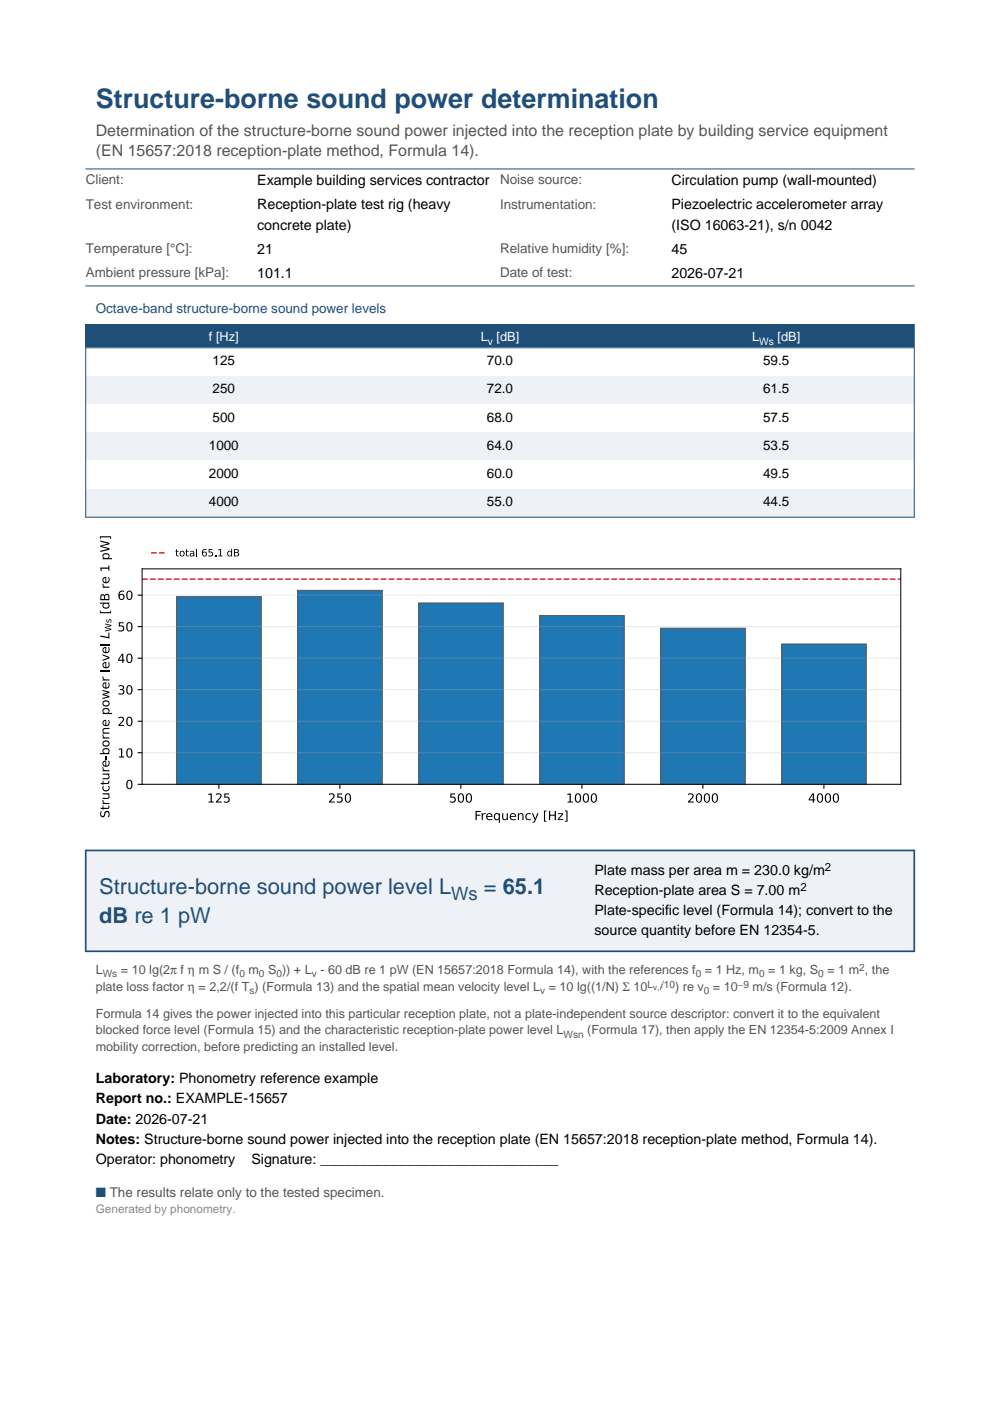
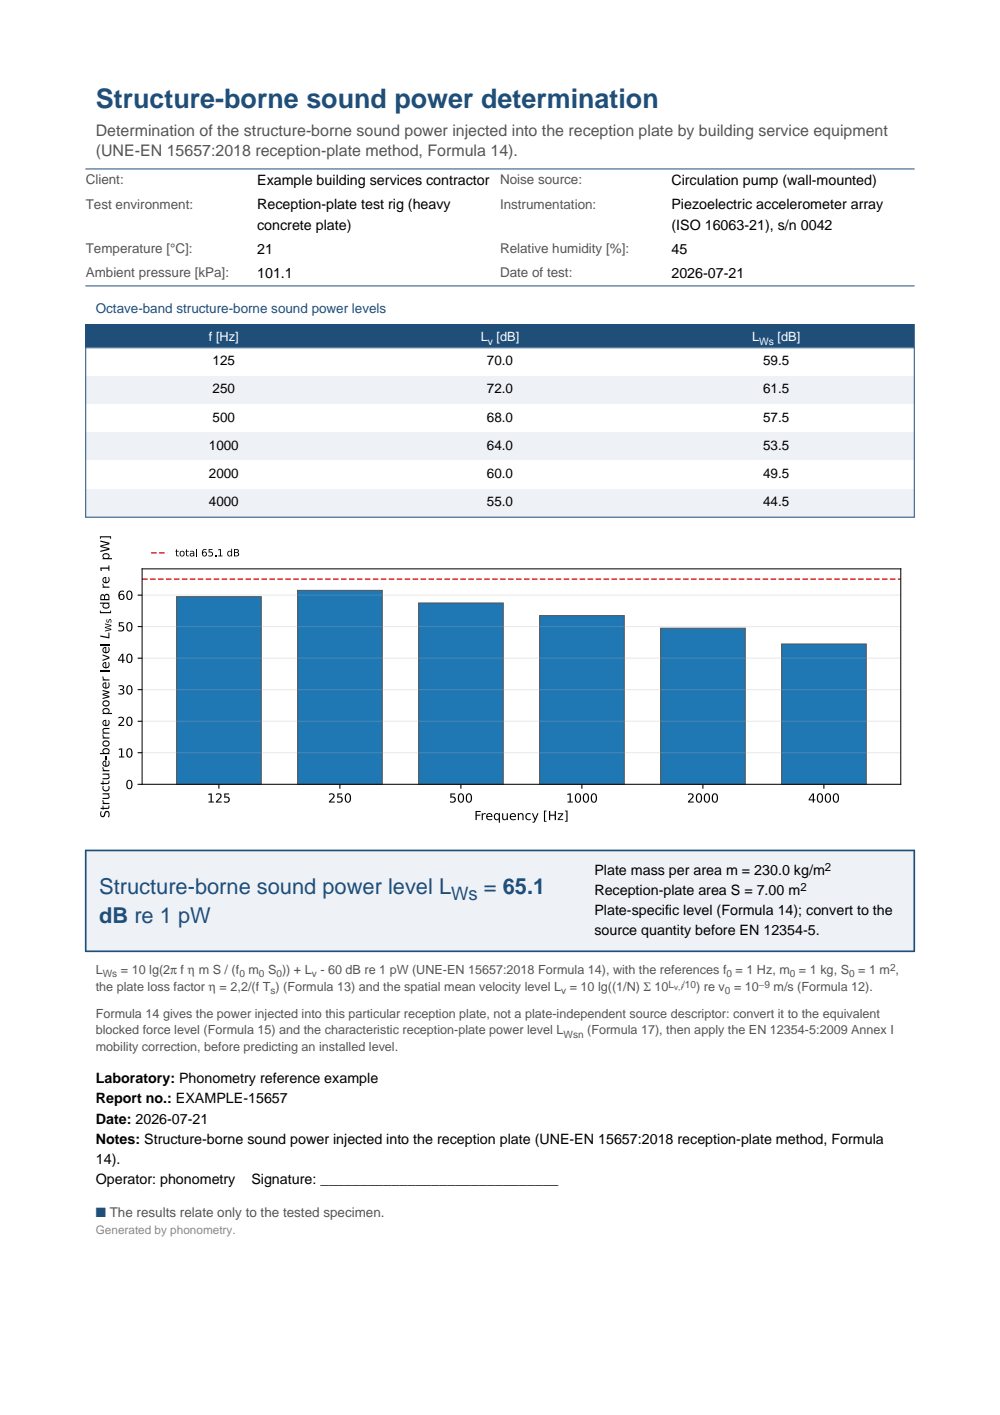
The structure-borne power method cites UNE-EN 15657:2018, the Spanish version of EN 15657:2017 it was checked against, wherever it cited an EN 15657:2018 that CEN never published, and the conformance report reads a UNE-EN designation whole

diff --git a/src/phonometry/_report/_i18n.py b/src/phonometry/_report/_i18n.py
@@ -580,7 +580,7 @@ _STRINGS: dict[str, str] = {
     # --- structure-borne source power / installed prediction (EN 15657, EN 12354-5) ---
     "{sym} = {value} dB, declared limit &#8804; {req} dB": "{sym} = {value} dB, límite declarado &#8804; {req} dB",
     "Structure-borne sound power determination": "Determinación de la potencia acústica estructural",
-    "Determination of the structure-borne sound power injected into the reception plate by building service equipment (EN 15657:2018 reception-plate method, Formula 14).": "Determinación de la potencia acústica estructural inyectada en la placa de recepción por equipos de servicio del edificio (método de la placa de recepción de la EN 15657:2018, fórmula 14).",
+    "Determination of the structure-borne sound power injected into the reception plate by building service equipment (UNE-EN 15657:2018 reception-plate method, Formula 14).": "Determinación de la potencia acústica estructural inyectada en la placa de recepción por equipos de servicio del edificio (método de la placa de recepción de la UNE-EN 15657:2018, fórmula 14).",
     "Structure-borne sound power levels per band": "Niveles de potencia acústica estructural por banda",
     "Octave-band structure-borne sound power levels": "Niveles de potencia acústica estructural en bandas de octava",
     "One-third-octave-band structure-borne sound power levels": "Niveles de potencia acústica estructural en bandas de tercio de octava",
@@ -588,7 +588,7 @@ _STRINGS: dict[str, str] = {
     "Plate mass per area m = {value} kg/m<super>2</super>": "Masa por unidad de área de la placa m = {value} kg/m<super>2</super>",
     "Reception-plate area S = {value} m<super>2</super>": "Área de la placa de recepción S = {value} m<super>2</super>",
     "Plate-specific level (Formula 14); convert to the source quantity before EN 12354-5.": "Nivel específico de la placa (fórmula 14); conviértalo a la magnitud de la fuente antes de la EN 12354-5.",
-    "L<sub>Ws</sub> = 10 lg(2&#960; f &#951; m S / (f<sub>0</sub> m<sub>0</sub> S<sub>0</sub>)) + L<sub>v</sub> - 60 dB re 1 pW (EN 15657:2018 Formula 14), with the references f<sub>0</sub> = 1 Hz, m<sub>0</sub> = 1 kg, S<sub>0</sub> = 1 m<super>2</super>, the plate loss factor &#951; = 2,2/(f T<sub>s</sub>) (Formula 13) and the spatial mean velocity level L<sub>v</sub> = 10 lg((1/N) &#931; 10<super>L<sub>v,<i>i</i></sub>/10</super>) re v<sub>0</sub> = 10<super>&#8722;9</super> m/s (Formula 12).": "L<sub>Ws</sub> = 10 lg(2&#960; f &#951; m S / (f<sub>0</sub> m<sub>0</sub> S<sub>0</sub>)) + L<sub>v</sub> - 60 dB re 1 pW (EN 15657:2018 fórmula 14), con las referencias f<sub>0</sub> = 1 Hz, m<sub>0</sub> = 1 kg, S<sub>0</sub> = 1 m<super>2</super>, el factor de pérdidas de la placa &#951; = 2,2/(f T<sub>s</sub>) (fórmula 13) y el nivel de velocidad medio espacial L<sub>v</sub> = 10 lg((1/N) &#931; 10<super>L<sub>v,<i>i</i></sub>/10</super>) re v<sub>0</sub> = 10<super>&#8722;9</super> m/s (fórmula 12).",
+    "L<sub>Ws</sub> = 10 lg(2&#960; f &#951; m S / (f<sub>0</sub> m<sub>0</sub> S<sub>0</sub>)) + L<sub>v</sub> - 60 dB re 1 pW (UNE-EN 15657:2018 Formula 14), with the references f<sub>0</sub> = 1 Hz, m<sub>0</sub> = 1 kg, S<sub>0</sub> = 1 m<super>2</super>, the plate loss factor &#951; = 2,2/(f T<sub>s</sub>) (Formula 13) and the spatial mean velocity level L<sub>v</sub> = 10 lg((1/N) &#931; 10<super>L<sub>v,<i>i</i></sub>/10</super>) re v<sub>0</sub> = 10<super>&#8722;9</super> m/s (Formula 12).": "L<sub>Ws</sub> = 10 lg(2&#960; f &#951; m S / (f<sub>0</sub> m<sub>0</sub> S<sub>0</sub>)) + L<sub>v</sub> - 60 dB re 1 pW (UNE-EN 15657:2018 fórmula 14), con las referencias f<sub>0</sub> = 1 Hz, m<sub>0</sub> = 1 kg, S<sub>0</sub> = 1 m<super>2</super>, el factor de pérdidas de la placa &#951; = 2,2/(f T<sub>s</sub>) (fórmula 13) y el nivel de velocidad medio espacial L<sub>v</sub> = 10 lg((1/N) &#931; 10<super>L<sub>v,<i>i</i></sub>/10</super>) re v<sub>0</sub> = 10<super>&#8722;9</super> m/s (fórmula 12).",
     "Formula 14 gives the power injected into this particular reception plate, not a plate-independent source descriptor: convert it to the equivalent blocked force level (Formula 15) and the characteristic reception-plate power level L<sub>Wsn</sub> (Formula 17), then apply the EN 12354-5:2009 Annex I mobility correction, before predicting an installed level.": "La fórmula 14 da la potencia inyectada en esta placa de recepción concreta, no un descriptor de fuente independiente de la placa: conviértala al nivel de fuerza bloqueada equivalente (fórmula 15) y al nivel de potencia característico de la placa de recepción L<sub>Wsn</sub> (fórmula 17), y aplique después la corrección de movilidad del anexo I de la EN 12354-5:2009, antes de predecir un nivel instalado.",
     "Predicted installed structure-borne sound": "Sonido estructural instalado previsto",
     "Predicted normalised structure-borne sound pressure level L<sub>n,s</sub> in the receiving room from building service equipment, estimated in accordance with EN 12354-5:2009 (installed power Formula 18b, per-path Formula 18a, energetic path sum Formula 17). This is a prediction from the characteristic source power and the transmission paths, not a measurement.": "Nivel de presión acústica estructural normalizado L<sub>n,s</sub> previsto en el recinto receptor debido a equipos de servicio del edificio, estimado de acuerdo con la EN 12354-5:2009 (potencia instalada fórmula 18b, por vía fórmula 18a, suma energética de vías fórmula 17). Es una predicción a partir de la potencia característica de la fuente y las vías de transmisión, no una medición.",

diff --git a/src/phonometry/building/measurement/structure_borne_power.py b/src/phonometry/building/measurement/structure_borne_power.py
@@ -1,5 +1,5 @@
 #  Copyright (c) 2026. Jose Manuel Requena Plens
-r"""Structure-borne sound power of building equipment (EN 15657:2018; ISO 9611).
+r"""Structure-borne sound power of building equipment (UNE-EN 15657:2018; ISO 9611).
 
 Building service equipment (pumps, fans, boilers, sanitary appliances) injects
 **structure-borne sound power** into the building structure it is fixed to.
@@ -114,7 +114,7 @@ __all__ = [
 
 #: EN 15657 vibratory velocity reference ``v0`` (= ISO 1683 10^-9 m/s), m/s.
 _REFERENCE_VELOCITY: float = REFERENCE_VALUES["solid"]["velocity"].value
-#: Reference structure-borne sound power ``P0``, W: the 10⁻¹² W EN 15657:2018
+#: Reference structure-borne sound power ``P0``, W: the 10⁻¹² W UNE-EN 15657:2018
 #: clause 7.1 counts the power level ``L_Ws`` from. ISO 1683 lists no
 #: structure-borne power; the number is the airborne 1 pW of its Table 1, and
 #: it is read from there.
@@ -125,7 +125,7 @@ _REFERENCE_MOBILITY: float = 1.0
 #: the 1 µN of ISO 1683:2015 Table 3.
 _REFERENCE_FORCE: float = REFERENCE_VALUES["solid"]["force"].value
 #: Characteristic mobility ``Y_R,inf,low`` of the standard 10 cm concrete
-#: reception plate (EN 15657:2018, clause 7.2.4), m/(N.s).
+#: reception plate (UNE-EN 15657:2018, clause 7.2.4), m/(N.s).
 _CHARACTERISTIC_PLATE_MOBILITY: float = 5.0e-6
 #: ISO 9611:1996 free-velocity reference ``v0`` (clause 7), m/s: the 50 nm/s
 #: ISO 1683:2015 keeps for structure-borne sound in note b of Table 3.
@@ -344,7 +344,7 @@ class StructureBornePowerResult(OwnsArrays):
         """Render an EN 15657 structure-borne sound power fiche to ``path``.
 
         Writes a one-page reception-plate characterization sheet: the
-        standard-basis line naming the EN 15657:2018 reception-plate method
+        standard-basis line naming the UNE-EN 15657:2018 reception-plate method
         (Formula 14), an optional metadata header (client, source equipment,
         test environment, instrumentation, climate, date), a per-band table
         (nominal octave/one-third-octave frequency, the spatial mean plate
@@ -449,7 +449,7 @@ def equivalent_blocked_force_level(
     power_level: ArrayLike,
     plate_mobility: ArrayLike,
 ) -> np.ndarray:
-    r"""Equivalent blocked force level, squared (EN 15657:2018, Formula 15).
+    r"""Equivalent blocked force level, squared (UNE-EN 15657:2018, Formula 15).
 
     :math:`L_\mathrm{Fb,eq} = L_\mathrm{Ws,low}
     - 10 \log_{10}(\operatorname{Re}\{Y_\mathrm{R,low,eq}\}/Y_0)`
@@ -500,7 +500,7 @@ def characteristic_reception_plate_power(
     *,
     characteristic_mobility: float = _CHARACTERISTIC_PLATE_MOBILITY,
 ) -> np.ndarray:
-    r"""Characteristic reception-plate power level (EN 15657:2018, Formula 17).
+    r"""Characteristic reception-plate power level (UNE-EN 15657:2018, Formula 17).
 
     :math:`L_\mathrm{Wsn} = L_\mathrm{Fb,eq} + 10 \log_{10}(|Y_{\mathrm{R},\infty,\mathrm{low}}|/Y_0)`
     with the characteristic mobility of the standard 10 cm concrete reception
@@ -534,7 +534,7 @@ def equivalent_free_velocity_level(
     power_level: ArrayLike,
     plate_mobility: ArrayLike,
 ) -> np.ndarray:
-    r"""Equivalent free velocity level of the source (EN 15657:2018, Formula 18).
+    r"""Equivalent free velocity level of the source (UNE-EN 15657:2018, Formula 18).
 
     :math:`L_\mathrm{vf,eq} = L_\mathrm{Ws,high} + 10 \log_{10}\left( |Y_\mathrm{R,high,eq}|^2 /
     (\operatorname{Re}\{Y_\mathrm{R,high,eq}\}\, Y_0) \right) + 60~\text{dB}`
@@ -585,7 +585,7 @@ def source_mobility_from_levels(
     free_velocity_level: ArrayLike,
     blocked_force_level: ArrayLike,
 ) -> np.ndarray:
-    r"""Equivalent source mobility magnitude (EN 15657:2018, Formula 19).
+    r"""Equivalent source mobility magnitude (UNE-EN 15657:2018, Formula 19).
 
     :math:`|Y_\mathrm{S,eq}|^2 / Y_0^2 = 10^{(L_\mathrm{vf,eq} - L_\mathrm{Fb,eq})/10} \cdot
     10^{-6}`, the ratio

diff --git a/src/phonometry/_report/en15657.py b/src/phonometry/_report/en15657.py
@@ -6,7 +6,7 @@ Renders a
 (the structure-borne sound power a piece of building service equipment injects
 into a reception plate of known mass per area ``m`` and area ``S`` from the
 spatial-average plate velocity level ``Lv`` and the plate loss factor ``eta``,
-EN 15657:2018 reception-plate method, Formula 14) to a one-page test sheet laid
+UNE-EN 15657:2018 reception-plate method, Formula 14) to a one-page test sheet laid
 out like a sound-power determination:
 
 * a title and the standard-basis line naming the EN 15657 reception-plate
@@ -67,7 +67,7 @@ def _basis(language: Language = "en") -> str:
     """The standard-basis line naming the EN 15657 reception-plate method."""
     return t(
         "Determination of the structure-borne sound power injected into the "
-        "reception plate by building service equipment (EN 15657:2018 "
+        "reception plate by building service equipment (UNE-EN 15657:2018 "
         "reception-plate method, Formula 14).",
         language,
     )
@@ -165,7 +165,7 @@ def _relation_strip(language: Language = "en") -> str:
     return t(
         "L<sub>Ws</sub> = 10 lg(2&#960; f &#951; m S / (f<sub>0</sub> "
         "m<sub>0</sub> S<sub>0</sub>)) + L<sub>v</sub> - 60 dB re 1 pW "
-        "(EN 15657:2018 Formula 14), with the references f<sub>0</sub> = 1 Hz, "
+        "(UNE-EN 15657:2018 Formula 14), with the references f<sub>0</sub> = 1 Hz, "
         "m<sub>0</sub> = 1 kg, S<sub>0</sub> = 1 m<super>2</super>, the plate "
         "loss factor &#951; = 2,2/(f T<sub>s</sub>) (Formula 13) and the "
         "spatial mean velocity level L<sub>v</sub> = 10 lg((1/N) &#931; "

diff --git a/scripts/conformance/domains/building.py b/scripts/conformance/domains/building.py
@@ -3260,7 +3260,7 @@ def _chk_iso7849_impedance_term() -> Outcome:
 # --- Structure-borne sound power of building equipment (EN 15657) ---
 @register(
     "Room & building acoustics",
-    "EN 15657:2018 Formula (14)",
+    "UNE-EN 15657:2018 Formula (14)",
     "Reception-plate L_Ws = resonant-plate power P = ωη(mS)⟨v²⟩  (round-trip)",
 )
 def _chk_en15657_power_balance() -> Outcome:
@@ -3277,7 +3277,7 @@ def _chk_en15657_power_balance() -> Outcome:
 
 @register(
     "Room & building acoustics",
-    "EN 15657:2018 Formula (13)",
+    "UNE-EN 15657:2018 Formula (13)",
     "Plate loss factor η = 2,2/(f·Ts) at 1 kHz, Ts = 0,3 s",
 )
 def _chk_en15657_loss_factor() -> Outcome:
@@ -3289,7 +3289,7 @@ def _chk_en15657_loss_factor() -> Outcome:
 
 @register(
     "Room & building acoustics",
-    "EN 15657:2018 Formulae (15)/(17) + EN 12354-5 Annex I.3",
+    "UNE-EN 15657:2018 Formulae (15)/(17) + EN 12354-5 Annex I.3",
     "Source conversion chain reproduces Table I.8 (wall, installed)",
 )
 def _chk_en15657_conversion_chain() -> Outcome:

diff --git a/src/phonometry/building/prediction/installed_structure_borne.py b/src/phonometry/building/prediction/installed_structure_borne.py
@@ -133,7 +133,7 @@ __all__ = [
 REFERENCE_AREA_M2: float = 10.0
 
 #: Characteristic mobility ``Y_inf,rec`` of the EN 15657 reference reception
-#: plate (10 cm concrete; EN 12354-5 Annex I / EN 15657:2018 7.2.4), m/(N.s).
+#: plate (10 cm concrete; EN 12354-5 Annex I / UNE-EN 15657:2018 7.2.4), m/(N.s).
 _REFERENCE_PLATE_MOBILITY: float = 5.0e-6
 
 
@@ -679,7 +679,7 @@ def typical_element_mobility(
 # closed form of :func:`tapping_machine_force_level_estimate`.
 #
 # The reference the table caption prints, "re 1 pN", is a defect: the values
-# are re 1e-6 N, the reference force of ISO 1683 that EN 15657:2018 Formula
+# are re 1e-6 N, the reference force of ISO 1683 that UNE-EN 15657:2018 Formula
 # (15) also uses. See docs/ERRATA.md. The tabulated numbers are unaffected.
 
 #: The ``10^-12`` the closed form under Table F.1 divides by, in N²: the square

diff --git a/tests/test_conformance_artifact.py b/tests/test_conformance_artifact.py
@@ -794,6 +794,17 @@ def test_a_standard_splits_into_designation_edition_and_clause() -> None:
     )
 
 
+def test_a_national_adoption_keeps_its_number_in_the_designation() -> None:
+    """UNE-EN 15657:2018 was read as the body "UNE-EN" with 15657 in the clause."""
+    document = _first("UNE-EN 15657:2018 Formula (14)")
+    assert document.kind is references.ReferenceKind.STANDARD
+    assert (document.designation, document.edition, document.clause) == (
+        "UNE-EN 15657",
+        "2018",
+        "Formula (14)",
+    )
+
+
 def test_a_book_edition_is_a_string_not_a_year() -> None:
     """An edition has to hold "2e" and "4th ed" as well as "2014"."""
     document = _first("Long, Architectural Acoustics 2e, Table 8.1")

diff --git a/tests/building/prediction/test_installed_structure_borne_tables.py b/tests/building/prediction/test_installed_structure_borne_tables.py
@@ -318,7 +318,7 @@ def test_table_f1_is_referred_to_1e_6_newton_not_1_piconewton() -> None:
     harmonic carries an r.m.s. force of ``sqrt(2) m sqrt(2 g h) n``. Summing
     the harmonics that fall in each octave band reproduces the tabulated
     values to 0,5 dB from 31,5 Hz to 1 kHz **only** when the level is read re
-    1e-6 N, the reference force of ISO 1683 that EN 15657:2018 Formula (15)
+    1e-6 N, the reference force of ISO 1683 that UNE-EN 15657:2018 Formula (15)
     also uses. Read re the 1 pN printed in the caption of Table F.1 the same
     cells would be 120 dB away from the machine that produces them; see
     docs/ERRATA.md.

diff --git a/scripts/reports/building_design.py b/scripts/reports/building_design.py
@@ -210,7 +210,7 @@ def _structure_borne_power_example() -> tuple[object, ReportMetadata, str]:
         operator="phonometry",
         report_id="EXAMPLE-15657",
         notes="Structure-borne sound power injected into the reception plate "
-        "(EN 15657:2018 reception-plate method, Formula 14).",
+        "(UNE-EN 15657:2018 reception-plate method, Formula 14).",
     )
     return result, metadata, "en15657_structure_borne_power_example.pdf"
 

diff --git a/tests/building/measurement/test_structure_borne_power_report.py b/tests/building/measurement/test_structure_borne_power_report.py
@@ -101,7 +101,7 @@ def test_report_renders_oracle_values(tmp_path: Path) -> None:
     assert "125" in text
     assert "4000" in text
     # Basis prose and the plate parameters in the boxed result.
-    assert "EN 15657:2018" in text
+    assert "UNE-EN 15657:2018" in text
     assert "reception-plate method" in text
     assert "Octave-band structure-borne sound power levels" in text
     assert "25.0" in text  # plate mass per area m

diff --git a/tests/building/measurement/test_structure_borne_power.py b/tests/building/measurement/test_structure_borne_power.py
@@ -1,5 +1,5 @@
 #  Copyright (c) 2026. Jose Manuel Requena Plens
-"""Tests for EN 15657:2018 structure-borne sound power (reception-plate method).
+"""Tests for UNE-EN 15657:2018 structure-borne sound power (reception-plate method).
 
 Anchored on the closed-form reception-plate relations: the energetic spatial
 mean velocity level (Formula 12), the loss factor eta = 2.2/(f Ts) (Formula 13),

diff --git a/tests/test_check_reference_values.py b/tests/test_check_reference_values.py
@@ -208,7 +208,7 @@ def test_iso_1683_itself_is_not_the_other_document(text: str) -> None:
     [
         "ISO 1683:1983",
         "DIN EN 21683",
-        "EN 15657:2018 clause 7.1; the 1 pW of ISO 1683:2015 Table 1",
+        "UNE-EN 15657:2018 clause 7.1; the 1 pW of ISO 1683:2015 Table 1",
     ],
 )
 def test_an_earlier_edition_or_another_standard_is(text: str) -> None:

diff --git a/scripts/conformance/references.py b/scripts/conformance/references.py
@@ -146,6 +146,7 @@ _BODIES = (
     "BS EN ISO",
     "BS EN",
     "UNE-EN ISO",
+    "UNE-EN",
     "EN ISO",
     "ISO/IEC Guide",
     "ISO/IEC",
